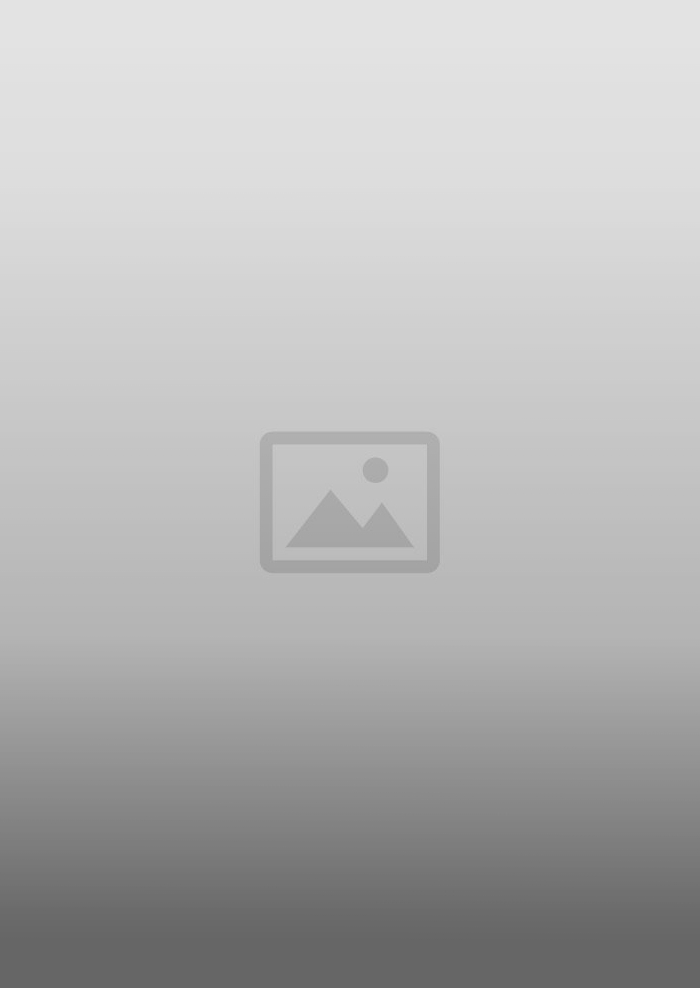
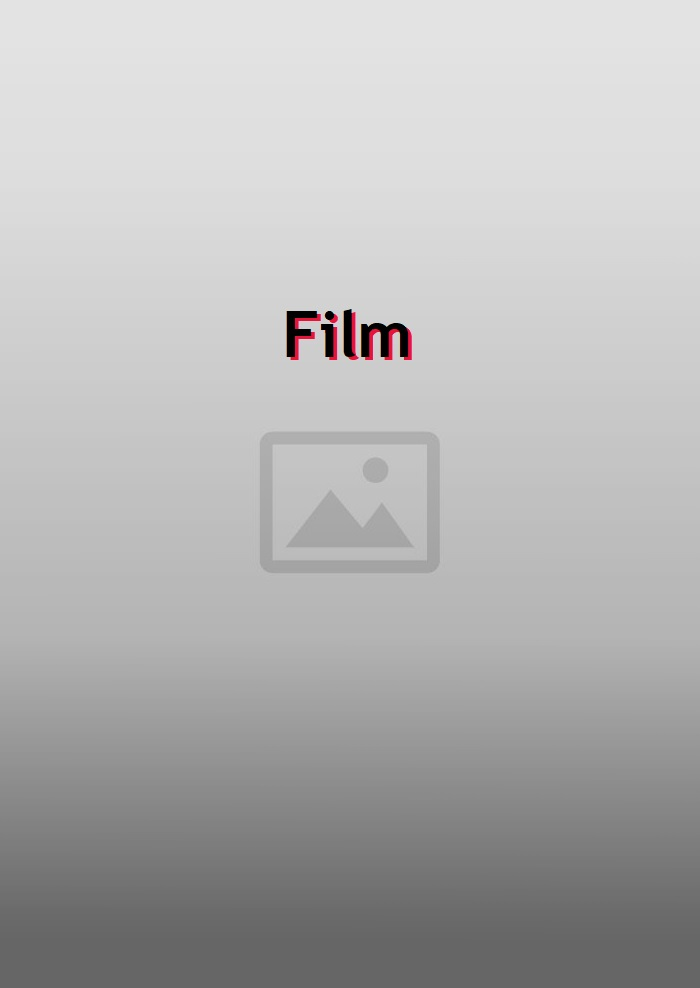
ds

Changed region(s): [[0.39, 0.3036, 0.6, 0.3644]]

diff --git a/css/style.css b/css/style.css
@@ -35,14 +35,6 @@ header h1, h2 {
     font-size:3rem;
 }
 
-#h2Real {
-    all: initial;
-    color: #c80404;
-    text-shadow: 2px 5px 15px #6a0c0c;
-    text-align: center;
-    font-size:3rem;
-    font-family: 'Trebuchet MS', 'Lucida Sans Unicode', 'Lucida Grande', 'Lucida Sans', Arial, sans-serif;
-}
 
 .whiteTxt {
     color: #d9d0d3; 
@@ -75,7 +67,7 @@ section {
     flex-direction: row;
 }
 
-.filmContainer {
+#filmContainer {
     display: flex;
     flex-direction: row;
     flex-wrap: wrap;
@@ -95,6 +87,27 @@ section {
     align-items: center;
     padding: 0.1rem;
 }
+
+#h2Real {
+    all: initial;
+    color: #c80404;
+    text-shadow: 2px 5px 15px #6a0c0c;
+    text-align: center;
+    font-size:3rem;
+    font-family: 'Trebuchet MS', 'Lucida Sans Unicode', 'Lucida Grande', 'Lucida Sans', Arial, sans-serif;
+}
+
+#breakDiv {
+    background-color: #2f2f2f;
+    box-shadow: 2px 0px 15px #6a0c0c;
+    display: flex;
+    flex-direction: row;
+    justify-content: center;
+    padding: 5rem;
+    margin: 5rem;
+    width: 100vw;
+}
+
 
 .film {
     max-width: 350px; 

diff --git a/php/functions.php b/php/functions.php
@@ -1,6 +1,32 @@
 <?php
 require_once "constante.php";
 
+function GetFilmInfo($film) {
+    $response = [];
+    $sql = "SELECT titre, annee, idPersonne, genres.nom, resume, idPays FROM films WHERE titre = ? AND genres.nom = ( SELECT nom FROM genres WHERE idGenre = films.idGenre )";
+    $param = [$film];
+    $record = dbRun($sql)->fetch();
+
+
+    switch ($film) {
+        case "":
+            $response["nom"] = "Film Action";
+            $response["image"] = "<img src=\"img/placeholder.jpg\" alt=\"filmAction\">";
+            $response["annee"] = $record["annee"];
+            $response["real"] = $record["idPersonne"];
+            $response["annee"] = $record[""];
+            break;
+        case "filmInformatique":
+            $response["nom"] = "Film d'Informatique";
+            $response["image"] = "<img src=\"img/placeholder.jpg\" alt=\"filmInformatique\">";
+            $response["annee"] = $record["annee"];
+            break;
+        default:
+            
+            break;
+    }
+}
+
 function GetFilterAttributes($filter, $checked, $GET) : array {
     $array = [
         "title" => "",
@@ -107,7 +133,7 @@ function GetFilms($filter) : string {
                     $record[$key]["titre"] = substr_replace($record[$key]["titre"], "...", 28);
                 }
                 $result .= "<div id=\"separatorDiv\">
-                <img class=\"film\" src=\"img/{$imgName}.jpg\" alt=\"".trim($record[$key]["titre"])."\" onclick=\"window.document.location.href='filminfo.php?film=".trim($record[$key]["titre"])."';\">
+                <img class=\"film\" src=\"img/{$imgName}.jpg\" alt=\"".trim($record[$key]["titre"])."\" onclick=\"window.document.location.href='filminfo.php?film=".strtolower(trim($record[$key]["titre"]))."';\">
                 <span class=\"txtimg\">{$record[$key]["titre"]}</span></div>";
             }
            
@@ -127,12 +153,37 @@ function GetFilms($filter) : string {
                     $sql = "SELECT prenom, nom FROM personnes WHERE idPersonne = ( SELECT idPersonne FROM films WHERE idFilm = :id )";
                     $param = ["id" => $record[$key]["idFilm"]];
                     $real = dbRun($sql, $param)->fetch();
-                    $result .= "<br><h2 id=\"h2Real\">{$real["prenom"]} {$real["nom"]}</h2><br>";
+                    $result .= "<div id=\"breakDiv\"><h2 id=\"h2Real\">{$real["prenom"]} {$real["nom"]}</h2></div>";
                     
                 }
                 $imgName = GetImageName($record, $key);
                 $result .= "<div id=\"separatorDiv\">
-                <img class=\"film\" src=\"img/{$imgName}.jpg\" alt=\"".trim($record[$key]["titre"])."\" onclick=\"window.document.location.href='filminfo.php?film=".trim($record[$key]["titre"])."';\">
+                <img class=\"film\" src=\"img/".$imgName.".jpg\" alt=\"".trim($record[$key]["titre"])."\" onclick=\"window.document.location.href='filminfo.php?film=".trim($record[$key]["titre"])."';\">
+                <span class=\"txtimg\">{$record[$key]["titre"]}</span></div>";
+            }
+            
+            return $result;
+        case 'genre':
+
+            $sql = "SELECT titre, idPersonne, idFilm, genres.nom FROM films, genres ORDER BY genres.nom";
+            $record = dbRun($sql)->fetchAll();
+            $oldReal = null;
+
+            foreach($record as $key => $value)
+            {
+                // Si c'est un nouveau realisateur on rajoute une ligne avec son nom
+                if ($record[$key]["idPersonne"] !== $oldReal || $oldReal == null)
+                {
+                    $oldReal = $record[$key]["idPersonne"];
+                    $sql = "SELECT prenom, nom FROM personnes WHERE idPersonne = ( SELECT idPersonne FROM films WHERE idFilm = :id )";
+                    $param = ["id" => $record[$key]["idFilm"]];
+                    $real = dbRun($sql, $param)->fetch();
+                    $result .= "<div id=\"breakDiv\"><h2 id=\"h2Real\">{$record}</h2></div>";
+                    
+                }
+                $imgName = GetImageName($record, $key);
+                $result .= "<div id=\"separatorDiv\">
+                <img class=\"film\" src=\"img/".$imgName.".jpg\" alt=\"".trim($record[$key]["titre"])."\" onclick=\"window.document.location.href='filminfo.php?film=".trim($record[$key]["titre"])."';\">
                 <span class=\"txtimg\">{$record[$key]["titre"]}</span></div>";
             }
             
@@ -144,9 +195,20 @@ function GetFilms($filter) : string {
 }
 
 function GetImageName($record, $key) : string {
+    //var_dump(strtolower(trim($record[$key]["titre"])));
     switch (strtolower(trim($record[$key]["titre"]))) {    
         case "terminator":
             return "terminator";
+        case "alien":
+            return "alien";
+        case "psychose":
+            return "psychose";
+        case "le parrain":
+            return "leParrain";
+        case "le parrain ii":
+            return "leParrainii";
+        case "le parrain iii":
+            return "leParrainiii";
         default:
             return "placeholder";
     }

diff --git a/index.php b/index.php
@@ -8,6 +8,10 @@ $attributesActor = "";
 $attributesLatest = "";
 $attributesNewest = "";
 $filter = filter_input(INPUT_GET, "filter", FILTER_SANITIZE_FULL_SPECIAL_CHARS);
+if ($filter === null)
+{
+    $filter = "title";
+}
 $checked = filter_input(INPUT_GET, "checked", FILTER_VALIDATE_BOOL);
 $attributes = GetFilterAttributes($filter, $checked, $_GET);
 
@@ -49,7 +53,7 @@ $attributesNewest = $attributes["newest"];
             <button <?php echo $attributesNewest; ?>>Dernières sorties</button>
             <button <?php echo $attributesLatest; ?>>Anciennes sorties</button>
         </section>
-        <article class="filmContainer">
+        <article id="filmContainer">
             <?php echo GetFilms($filter); ?>
         </article>
     </main>

diff --git a/filminfo.php b/filminfo.php
@@ -2,19 +2,7 @@
 $filmNom = "";
 $image = "";
 $film = filter_input(INPUT_GET, "film", FILTER_SANITIZE_FULL_SPECIAL_CHARS );
-switch ($film) {
-    case "%27filmAction%27":
-        $filmNom = "Film Action";
-        $image = "<img src=\"img/placeholder.jpg\" alt=\"filmAction\">";
-        break;
-    case "filmInformatique":
-        $filmNom = "Film d'Informatique";
-        $image = "<img src=\"img/placeholder.jpg\" alt=\"filmInformatique\">";
-        break;
-    default:
-        
-        break;
-}
+
 
 
 ?>
